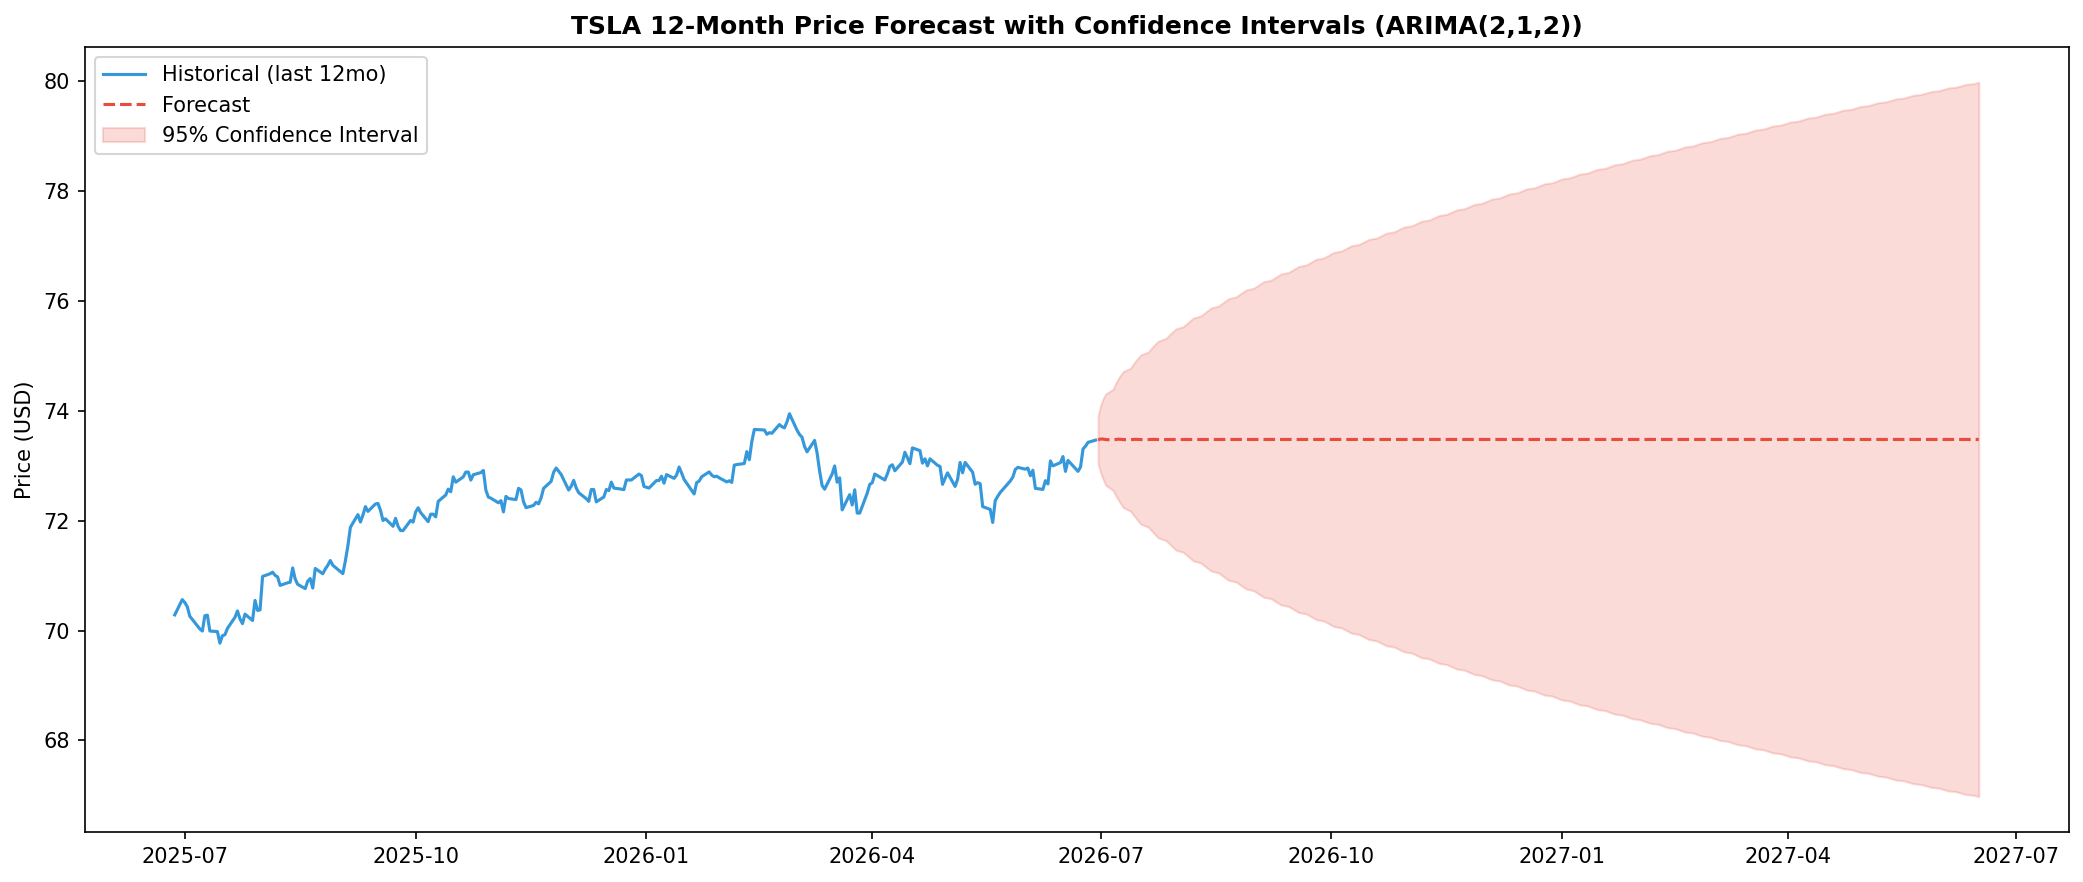
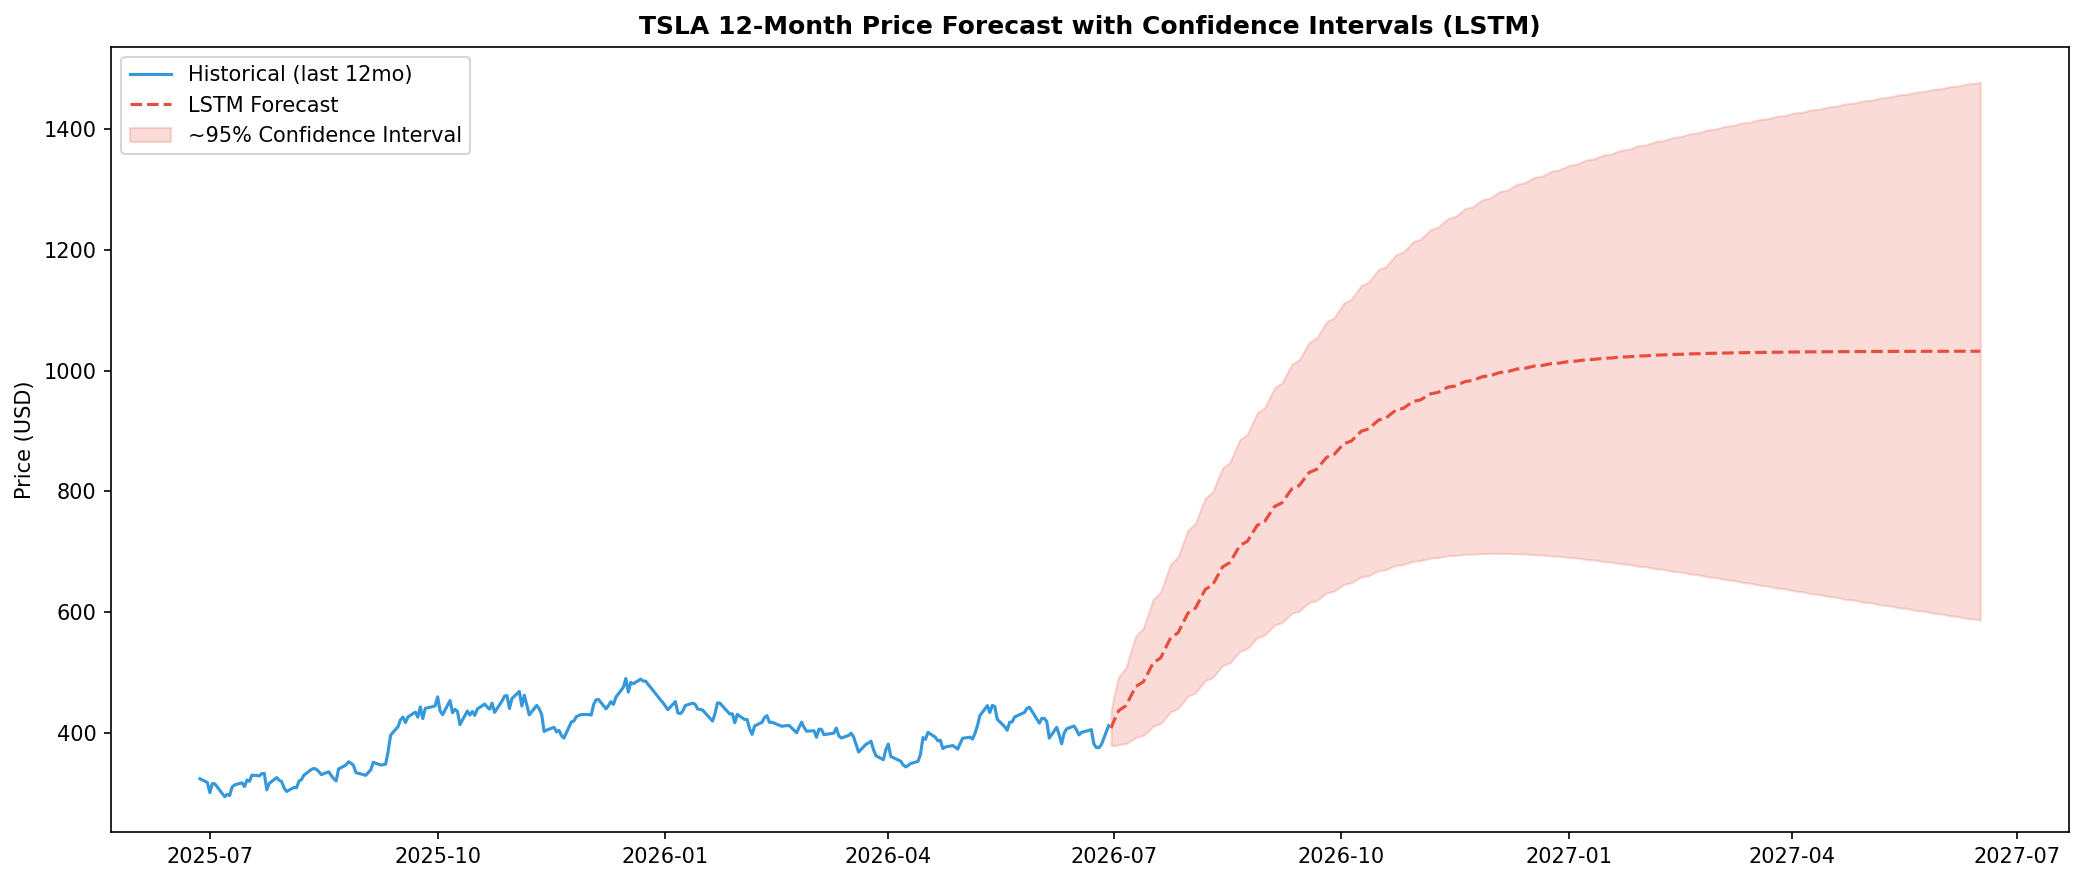
fix: Task 3 forecast now uses LSTM (best Task 2 model) with sqrt(horizon)-scaled confidence intervals

diff --git a/src/forecast_future.py b/src/forecast_future.py
@@ -3,14 +3,18 @@ import numpy as np
 import matplotlib
 matplotlib.use("Agg")
 import matplotlib.pyplot as plt
-from statsmodels.tsa.arima.model import ARIMA
+from sklearn.preprocessing import MinMaxScaler
+import tensorflow as tf
 import json
 import sys
 import warnings
 warnings.filterwarnings("ignore")
 
 FORECAST_DAYS = 252  # ~12 months of trading days
-ORDER = (2, 1, 2)
+WINDOW = 60
+EPOCHS = 20
+BATCH_SIZE = 32
+Z_95 = 1.96
 
 
 def load_data(path="data/processed/prices.csv"):
@@ -30,12 +34,74 @@ def load_data(path="data/processed/prices.csv"):
     return df["TSLA"]
 
 
-def fit_arima(series, order=ORDER):
+def load_one_step_rmse(path="data/processed/lstm_metrics.json"):
+    """Use the Task 2 LSTM's one-step-ahead test RMSE as the basis for
+    forecast uncertainty, since it's already a validated out-of-sample estimate
+    of the model's per-step error."""
     try:
-        model = ARIMA(series, order=order)
-        return model.fit()
+        metrics = json.load(open(path))
+        return metrics["RMSE"]
     except Exception as e:
-        print(f"ERROR: ARIMA failed to fit with order {order}: {e}")
+        print(f"WARNING: could not load LSTM RMSE from {path} ({e}); using a fallback estimate.")
+        return None
+
+
+def build_lstm(window):
+    model = tf.keras.Sequential([
+        tf.keras.layers.LSTM(50, return_sequences=True, input_shape=(window, 1)),
+        tf.keras.layers.LSTM(50),
+        tf.keras.layers.Dense(1)
+    ])
+    model.compile(optimizer="adam", loss="mse")
+    return model
+
+
+def make_sequences(data, window):
+    X, y = [], []
+    for i in range(window, len(data)):
+        X.append(data[i - window:i, 0])
+        y.append(data[i, 0])
+    return np.array(X), np.array(y)
+
+
+def train_production_model(series, window=WINDOW):
+    """Train on the FULL historical series (not a train/test split) since this
+    model is used to forecast genuinely unseen future dates, not to be evaluated
+    against a held-out period. Task 2 already validated LSTM's accuracy on a
+    proper chronological holdout."""
+    try:
+        scaler = MinMaxScaler()
+        scaled = scaler.fit_transform(series.values.reshape(-1, 1))
+        X, y = make_sequences(scaled, window)
+        X = X.reshape(-1, window, 1)
+
+        model = build_lstm(window)
+        print("Training production LSTM on full history...")
+        model.fit(X, y, epochs=EPOCHS, batch_size=BATCH_SIZE, verbose=1)
+        return model, scaler
+    except Exception as e:
+        print(f"ERROR: LSTM training failed: {e}")
+        sys.exit(1)
+
+
+def iterative_forecast(model, scaler, series, periods, window=WINDOW):
+    """Iteratively predict and feed predictions back into the window, as required
+    for multi-step LSTM forecasting."""
+    try:
+        scaled_history = scaler.transform(series.values.reshape(-1, 1)).flatten()
+        current_window = list(scaled_history[-window:])
+        preds_scaled = []
+
+        for _ in range(periods):
+            x = np.array(current_window[-window:]).reshape(1, window, 1)
+            pred = model.predict(x, verbose=0)[0, 0]
+            preds_scaled.append(pred)
+            current_window.append(pred)
+
+        preds = scaler.inverse_transform(np.array(preds_scaled).reshape(-1, 1)).flatten()
+        return preds
+    except Exception as e:
+        print(f"ERROR: iterative forecasting failed: {e}")
         sys.exit(1)
 
 
@@ -43,38 +109,41 @@ def make_future_index(last_date, periods):
     return pd.bdate_range(start=last_date + pd.Timedelta(days=1), periods=periods)
 
 
-def forecast_with_ci(fitted, periods, alpha=0.05):
-    try:
-        forecast_obj = fitted.get_forecast(steps=periods)
-        mean = forecast_obj.predicted_mean
-        ci = forecast_obj.conf_int(alpha=alpha)
-        return mean, ci
-    except Exception as e:
-        print(f"ERROR: forecasting failed: {e}")
-        sys.exit(1)
+def compute_confidence_intervals(mean_forecast, one_step_rmse, z=Z_95):
+    """Approximate growing uncertainty for an iterative multi-step forecast by
+    scaling the validated one-step RMSE by sqrt(horizon), consistent with the
+    assumption that forecast errors compound similarly to a random walk. This is
+    a standard simplification when a model lacks a native uncertainty framework."""
+    if one_step_rmse is None:
+        one_step_rmse = mean_forecast.std() * 0.05  # rough fallback, rarely used
+    horizons = np.arange(1, len(mean_forecast) + 1)
+    width = z * one_step_rmse * np.sqrt(horizons)
+    lower = mean_forecast - width
+    upper = mean_forecast + width
+    return lower, upper, width
 
 
-def analyze_trend(history, mean_forecast, ci, future_index):
+def analyze_trend(history, mean_forecast, lower, upper, width, future_index):
     try:
         last_price = history.iloc[-1]
-        end_price = mean_forecast.iloc[-1]
+        end_price = mean_forecast[-1]
         pct_change = (end_price - last_price) / last_price * 100
         direction = "upward" if pct_change > 0 else "downward"
 
-        ci_width = ci.iloc[:, 1] - ci.iloc[:, 0]
         milestones = {}
         for months, label in [(21, "1_month"), (126, "6_month"), (252, "12_month")]:
-            if months <= len(ci_width):
+            if months <= len(mean_forecast):
                 idx = months - 1
                 milestones[label] = {
                     "date": str(future_index[idx].date()),
-                    "forecast_price": round(float(mean_forecast.iloc[idx]), 2),
-                    "ci_lower": round(float(ci.iloc[idx, 0]), 2),
-                    "ci_upper": round(float(ci.iloc[idx, 1]), 2),
-                    "ci_width": round(float(ci_width.iloc[idx]), 2),
+                    "forecast_price": round(float(mean_forecast[idx]), 2),
+                    "ci_lower": round(float(lower[idx]), 2),
+                    "ci_upper": round(float(upper[idx]), 2),
+                    "ci_width": round(float(width[idx]), 2),
                 }
 
         return {
+            "model": "LSTM (iterative multi-step)",
             "last_actual_price": round(float(last_price), 2),
             "last_actual_date": str(history.index[-1].date()),
             "forecast_end_price": round(float(end_price), 2),
@@ -82,24 +151,24 @@ def analyze_trend(history, mean_forecast, ci, future_index):
             "pct_change": round(float(pct_change), 2),
             "trend_direction": direction,
             "milestones": milestones,
-            "ci_widens_over_time": bool(ci_width.iloc[-1] > ci_width.iloc[0]),
+            "ci_widens_over_time": bool(width[-1] > width[0]),
         }
     except Exception as e:
         print(f"ERROR: trend analysis failed: {e}")
         return {}
 
 
-def plot_forecast(history, mean_forecast, ci, future_index, path="data/processed/future_forecast.png"):
+def plot_forecast(history, mean_forecast, lower, upper, future_index, path="data/processed/future_forecast.png"):
     try:
         fig, ax = plt.subplots(figsize=(14, 6))
         recent = history[-252:]
         ax.plot(recent.index, recent, label="Historical (last 12mo)", color="#3498db")
-        ax.plot(future_index, mean_forecast, label="Forecast", color="#e74c3c", linestyle="--")
+        ax.plot(future_index, mean_forecast, label="LSTM Forecast", color="#e74c3c", linestyle="--")
         ax.fill_between(
-            future_index, ci.iloc[:, 0], ci.iloc[:, 1],
-            color="#e74c3c", alpha=0.2, label="95% Confidence Interval"
+            future_index, lower, upper,
+            color="#e74c3c", alpha=0.2, label="~95% Confidence Interval"
         )
-        ax.set_title("TSLA 12-Month Price Forecast with Confidence Intervals (ARIMA(2,1,2))", fontweight="bold")
+        ax.set_title("TSLA 12-Month Price Forecast with Confidence Intervals (LSTM)", fontweight="bold")
         ax.set_ylabel("Price (USD)")
         ax.legend()
         plt.tight_layout()
@@ -122,19 +191,20 @@ def main():
     tsla = load_data()
     print(f"Loaded {len(tsla)} rows, last date: {tsla.index[-1].date()}")
 
-    fitted = fit_arima(tsla)
-    print(f"ARIMA{ORDER} fitted on full TSLA series")
+    one_step_rmse = load_one_step_rmse()
+    print(f"Using one-step RMSE for uncertainty scaling: {one_step_rmse}")
+
+    model, scaler = train_production_model(tsla)
 
     future_index = make_future_index(tsla.index[-1], FORECAST_DAYS)
-    mean_forecast, ci = forecast_with_ci(fitted, FORECAST_DAYS)
-    mean_forecast.index = future_index
-    ci.index = future_index
+    mean_forecast = iterative_forecast(model, scaler, tsla, FORECAST_DAYS)
+    lower, upper, width = compute_confidence_intervals(mean_forecast, one_step_rmse)
 
-    summary = analyze_trend(tsla, mean_forecast, ci, future_index)
+    summary = analyze_trend(tsla, mean_forecast, lower, upper, width, future_index)
     print(json.dumps(summary, indent=2))
 
     save_summary(summary)
-    plot_forecast(tsla, mean_forecast, ci, future_index)
+    plot_forecast(tsla, mean_forecast, lower, upper, future_index)
 
 
 if __name__ == "__main__":